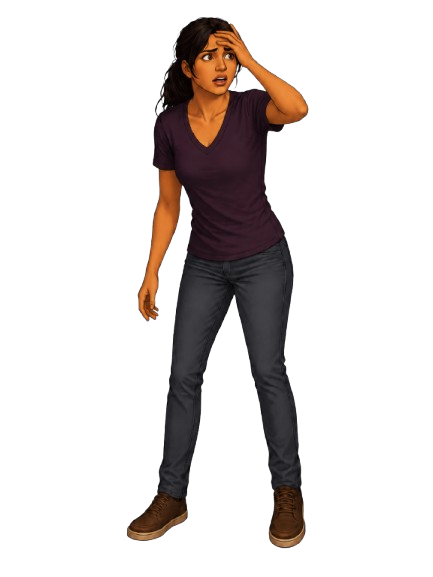
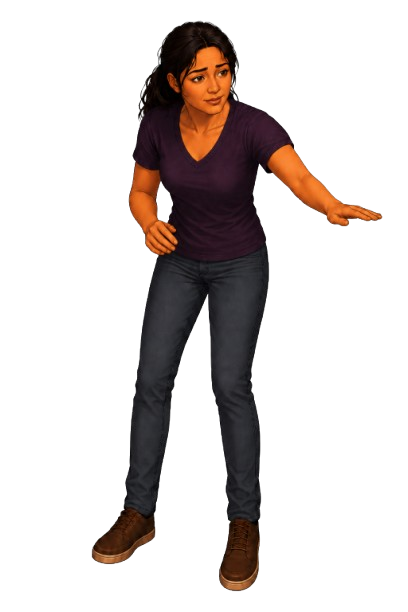
fix: adjust Sarah Chen and vet tech positioning and sizing; replace Sarah panicked image with petting pose

Changed region(s): [[0.2059, 0.0312, 0.9412, 0.9671]]

diff --git a/src/room/RoomFigures.js b/src/room/RoomFigures.js
@@ -60,12 +60,12 @@ export function SeatedOwner({ caseId = "derm_001", speaking, dimmed, mood = "neu
   const defaultMood = caseId === "gdv_001" ? "panicked" : "neutral";
   const src = caseImages[mood] || caseImages[defaultMood];
   return (
-    <div style={{ position: "absolute", left: 80, top: 400,
+    <div style={{ position: "absolute", left: caseId === "gdv_001" ? 245 : 95, top: caseId === "gdv_001" ? 290 : 265,
       transition: "filter .3s, opacity .3s",
       filter: dimmed ? "saturate(0.85) brightness(0.97)" : "none",
       opacity: dimmed ? 0.94 : 1,
       animation: speaking ? "rmBob 2.8s ease-in-out infinite" : "none" }}>
-      <img src={src} alt="" style={{ width: caseId === "gdv_001" ? 260 : 320, height: "auto", display: "block" }} />
+      <img src={src} alt="" style={{ width: caseId === "gdv_001" ? "auto" : 400, height: caseId === "gdv_001" ? 480 : "auto", display: "block" }} />
     </div>
   );
 }

diff --git a/src/room/RoomProps.js b/src/room/RoomProps.js
@@ -99,8 +99,8 @@ export function BackCounter() {
 export function VetTechFigure({ mood = "neutral" }) {
   const src = TECH_IMAGES[mood] || TECH_IMAGES.neutral;
   return (
-    <div style={{ position: "absolute", left: 980, top: 350 }}>
-      <img src={src} alt="" style={{ width: 150, height: "auto", display: "block" }} />
+    <div style={{ position: "absolute", left: 955, top: 205 }}>
+      <img src={src} alt="" style={{ width: 320, height: "auto", display: "block" }} />
     </div>
   );
 }